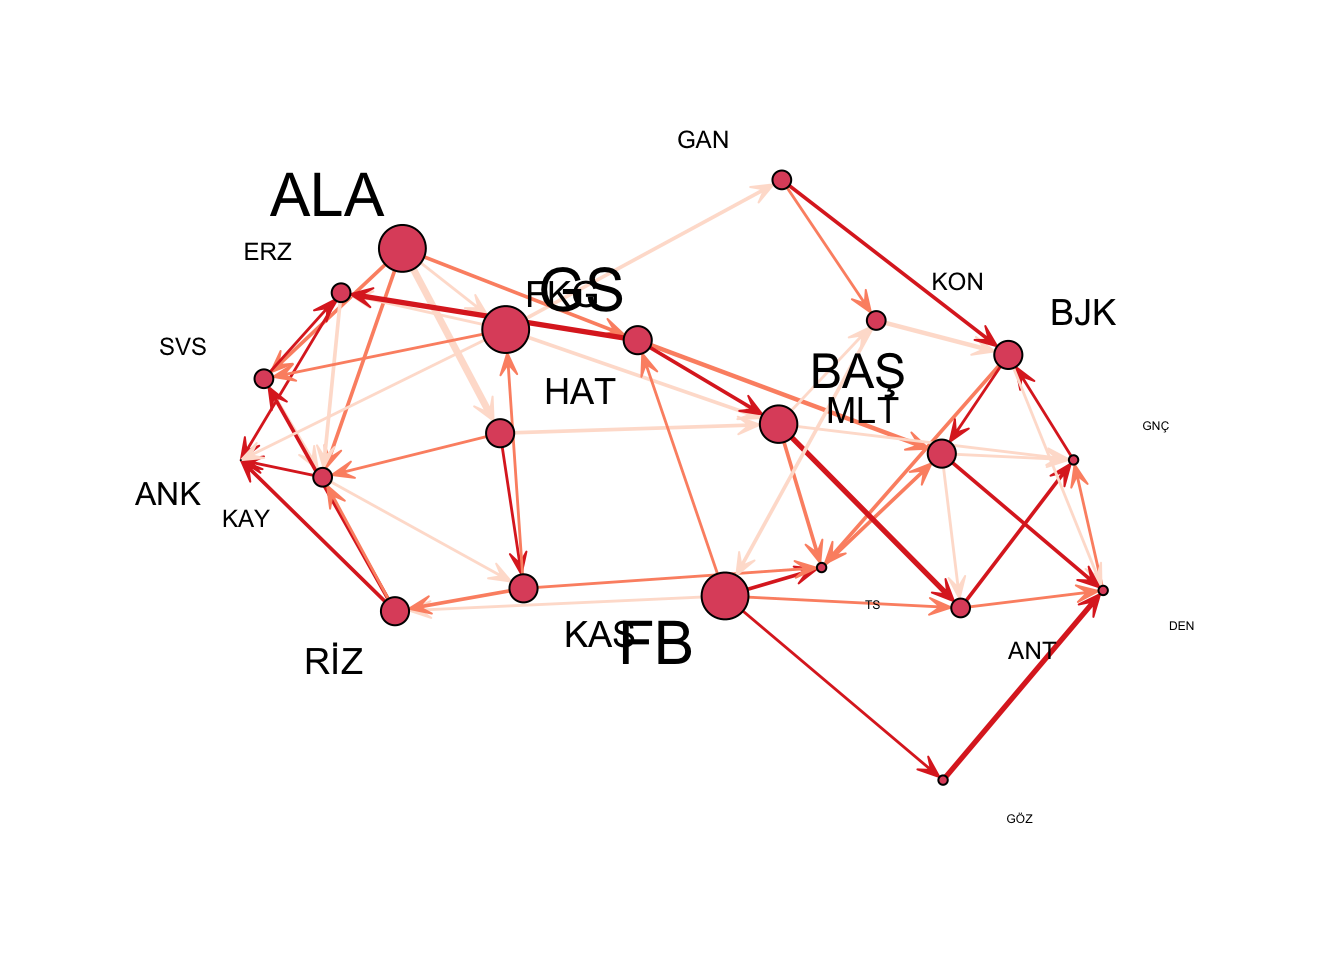
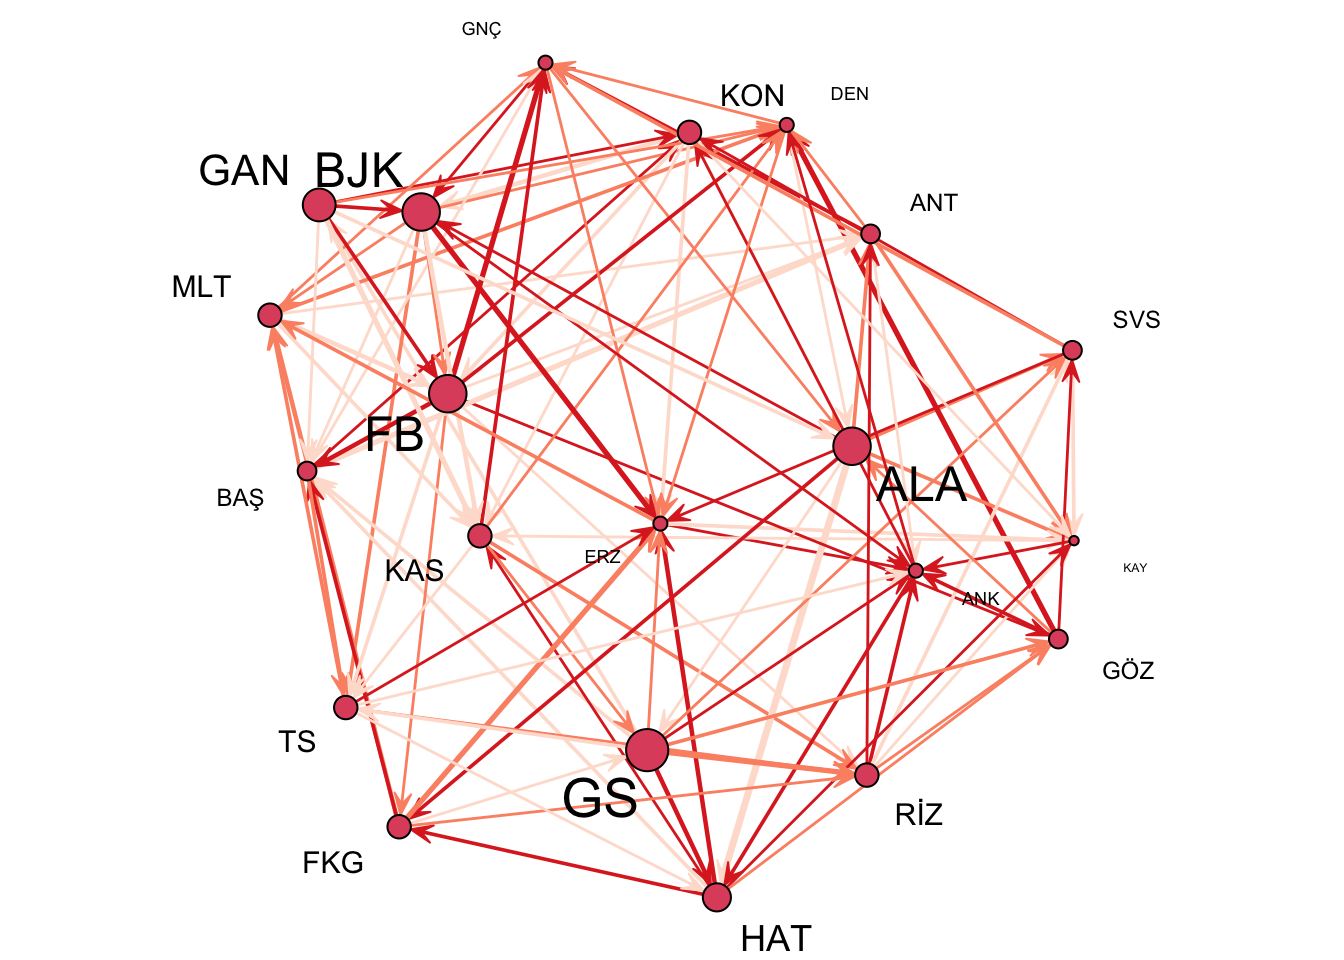
post update -network analysis

diff --git a/content/post/2020-11-11-r-ile-sosyal-network-analizi/index.en.html b/content/post/2020-11-11-r-ile-sosyal-network-analizi/index.en.html
@@ -18,6 +18,7 @@ codeLineNumbers: no
 figurePositionShow: yes
 ---
 
+<script src="/rmarkdown-libs/header-attrs/header-attrs.js"></script>
 <link href="/rmarkdown-libs/anchor-sections/anchor-sections.css" rel="stylesheet" />
 <script src="/rmarkdown-libs/anchor-sections/anchor-sections.js"></script>
 
@@ -38,7 +39,7 @@ tff_page %&gt;%
   html_table(fill=TRUE) -&gt; x 
 
 i &lt;- 41 
-while(i &lt;= 54){ 
+while(i &lt;= 70){ 
   tff_page %&gt;% 
     html_nodes(&quot;table&quot;) %&gt;% 
     .[[i]] %&gt;% 
@@ -57,10 +58,8 @@ head(x,5)</code></pre>
 ## 5 FATİH KARAGÜMRÜK A.Ş. 3 - 0             YENİ MALATYASPOR</code></pre>
 <p>İlk satırda müsabaka sonuçlarının yer aldığı sayfayı <em>url</em> değişkenine atıyorum. Sonra sayfayı <em>tff_page</em> değişkenine <em>read_html</em> fonksiyonunu kullanarak liste olarak indiriyorum. Son olarak sayfanın html koduna bakarak almak istediğim kısmı bulup while döngüsüyle bu kısımları dataframe’e çeviriyorum. Şayet siz bu kodu çalıştırırken sayfanın yapısı değişmişse, kodun bu kısmınının güncellenmesi gerekir.</p>
 <p>İkinci aşamada elde ettiğimiz verisetini, <em>edge list</em>’e çevireceğiz:</p>
-<pre class="r"><code>x[,2] &lt;- lapply(x$X2, function (k) k &lt;- gsub(&quot;-&quot;,&quot;&quot;,x$X2)) </code></pre>
-<pre><code>## Warning in `[&lt;-.data.frame`(`*tmp*`, , 2, value = list(c(&quot;1 2&quot;, &quot;0 2&quot;, :
-## provided 80 variables to replace 1 variables</code></pre>
-<pre class="r"><code>N &lt;- length(x$X2) 
+<pre class="r"><code>x[,2] &lt;- lapply(x$X2, function (k) k &lt;- gsub(&quot;-&quot;,&quot;&quot;,x$X2)) 
+N &lt;- length(x$X2) 
 xnew &lt;- data.frame(team1=character(),
                    team2=character(),
                    avrg=numeric(),
@@ -119,9 +118,9 @@ netplays</code></pre>
 ##   loops = FALSE 
 ##   multiple = FALSE 
 ##   bipartite = FALSE 
-##   total edges= 53 
+##   total edges= 106 
 ##     missing edges= 0 
-##     non-missing edges= 53 
+##     non-missing edges= 106 
 ## 
 ##  Vertex attribute names: 
 ##     vertex.names 
@@ -138,11 +137,8 @@ gplot(netplays, gmode=&quot;digraph&quot;, mode=&quot;fruchtermanreingold&quot;,
       vertex.cex=deg*15, label.cex = deg*20, arrowhead.cex = 0.7, 
       edge.lwd=(netplays %e% &quot;avrg&quot;)/2, 
       edge.col=brewer.pal(netplays %e% &quot;avrg&quot;, name = &quot;Reds&quot;),jitter = TRUE)</code></pre>
-<pre><code>## Warning in if (n &lt; 3) {: the condition has length &gt; 1 and only the first element
-## will be used</code></pre>
-<pre><code>## Warning in brewer.pal(netplays %e% &quot;avrg&quot;, name = &quot;Reds&quot;): minimal value for n is 3, returning requested palette with 3 different levels</code></pre>
 <p><img src="/post/2020-11-11-r-ile-sosyal-network-analizi/index.en_files/figure-html/unnamed-chunk-6-1.png" width="672" /></p>
-<p>Bu grafikte gplot vertex ve takım ismi büyüklüklerini takımların galibiyet miktarına göre ayarlıyor. Sıralamada yukarıda yer alan takımlar grafiğin ortasında, sonlarda yer alan takımlar kenarlarda yer almakta. Takımlar arasındaki bağlantı net skora göre açıktan koyuya doğru değişiyor. Koyu kırmızı bağlantılar farklı galibiyetleri gösteriyor.</p>
+<p>Bu grafikte gplot vertex ve takım ismi büyüklüklerini takımların galibiyet miktarına göre ayarlıyor. Üst sıralardaki takımlar daha büyük gsteriliyor. Takımlar arasındaki bağlantı net skora göre açıktan koyuya doğru değişiyor. Koyu kırmızı bağlantılar farklı galibiyetleri gösteriyor. Oklar galib takımdan mağlup takıma doğru gidiyor.</p>
 <p>Aşağıda mode parametresini değiştirerek dairesel bir grafik oluşturdum:</p>
 <pre class="r"><code>deg &lt;- degree(netplays, cmode = &quot;outdegree&quot;, rescale = TRUE) 
 par(mar=c(0,0,0,0)) 
@@ -151,8 +147,5 @@ gplot(netplays, gmode=&quot;digraph&quot;, mode=&quot;circle&quot;, usearrows=TR
       vertex.cex=deg*15, label.cex = deg*20, arrowhead.cex = 0.7, 
       edge.lwd=(netplays %e% &quot;avrg&quot;)/2, 
       edge.col=brewer.pal(netplays %e% &quot;avrg&quot;, name = &quot;Reds&quot;),jitter = TRUE)</code></pre>
-<pre><code>## Warning in if (n &lt; 3) {: the condition has length &gt; 1 and only the first element
-## will be used</code></pre>
-<pre><code>## Warning in brewer.pal(netplays %e% &quot;avrg&quot;, name = &quot;Reds&quot;): minimal value for n is 3, returning requested palette with 3 different levels</code></pre>
 <p><img src="/post/2020-11-11-r-ile-sosyal-network-analizi/index.en_files/figure-html/unnamed-chunk-7-1.png" width="672" /></p>
 <p><em>Vertex</em>’lere takımlarla ilgili, <em>edge</em>’lere maçlarla ilgili birçok özellik işlenerek, ligin çok farklı yönlerini görselleştiren grafikler çizmek mümkün. Bu notta sadece kitabın kapağını biraz aralayıp R ile yapabileceklerimizi bir miktar göstermek istedim.</p>

diff --git a/themes/hugo-clarity/layouts/partials/head.html b/themes/hugo-clarity/layouts/partials/head.html
@@ -25,6 +25,7 @@
 {{- partial "opengraph" . }}
 {{- partial "favicon" . }}
 <link rel="canonical" href="{{ .Permalink }}">
+
 {{ range .AlternativeOutputFormats -}}
     {{ printf `<link rel="%s" type="%s" href="%s" title="%s" />` .Rel .MediaType.Type .Permalink $.Site.Title | safeHTML }}
 {{ end -}}

diff --git a/themes/hugo-clarity/assets/js/code.js b/themes/hugo-clarity/assets/js/code.js
@@ -36,7 +36,9 @@ const panelHide = 'panel_hide';
 const panelFrom = 'panel_from';
 const panelBox = 'panel_box';
 const fullHeight = 'initial';
-const highlightWrap = 'highlight_wrap'
+const highlightWrap = 'highlight_wrap';
+
+
 
 function wrapOrphanedPreElements() {
   const pres = elems('pre');

diff --git a/index.html b/index.html
@@ -2,9 +2,7 @@
 site: blogdown:::blogdown_site
 ---
 
-<script src="index_files/header-attrs/header-attrs.js"></script>
-<link href="index_files/anchor-sections/anchor-sections.css" rel="stylesheet" />
-<script src="index_files/anchor-sections/anchor-sections.js"></script>
+
 
 
 

diff --git a/themes/hugo-clarity/assets/js/custom.js b/themes/hugo-clarity/assets/js/custom.js
@@ -1,1 +1,2 @@
 // add custom js in this file
+
